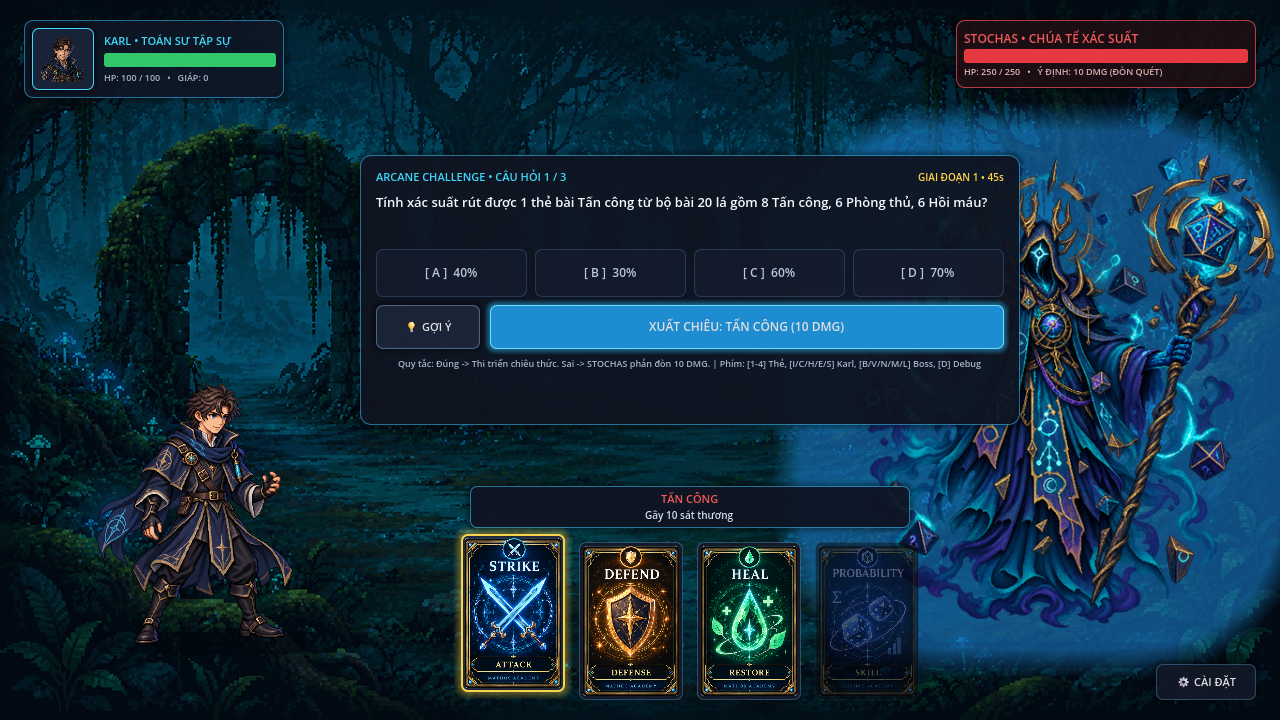
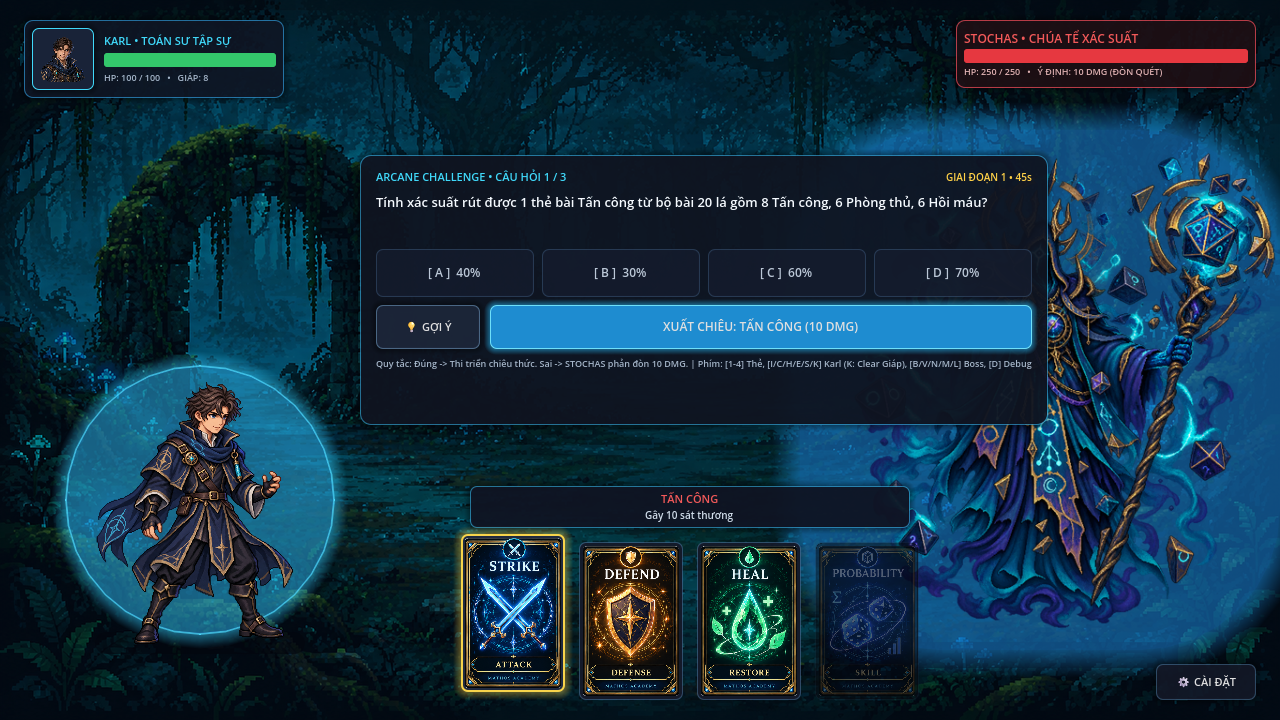
feat(lab): implement persistent shield state and active barrier visual [MATHOS-PERSISTENT-SHIELD-LAB-226L]

diff --git a/Agent recovery/Agent3.md b/Agent recovery/Agent3.md
@@ -3,23 +3,23 @@
 > Canonical recovery note for Agent3. This file must be updated every time Agent3 receives a prompt, and updated again before sending a report if state changed.
 
 ## 1. CURRENT TASK
-- TASK_ID: MATHOS-STOCHAS-LAB-COMBAT-TIMING-FIX-225L
-- TITLE: LAB-only interaction timing fix
-- FROM: User / LAB Gameplay Flow Correction
-- PRIORITY: P0 / LAB GAMEPLAY FLOW CORRECTION
-- BASE: 8daf880244c8673c88fd373e12f922618be26f44
+- TASK_ID: MATHOS-PERSISTENT-SHIELD-LAB-226L
+- TITLE: Persistent shield-state visual fix
+- FROM: User / LAB Combat State
+- PRIORITY: P0 / LAB COMBAT STATE
+- BASE: 96765416e464bea68678e8e37d45214aad07c305
 - STATUS: DONE
-- PROMPT_RECEIVED_AT: 2026-09-13T08:47:00+07:00
-- UPDATED_AT: 2026-09-13T08:48:45+07:00
+- PROMPT_RECEIVED_AT: 2026-09-13T09:05:00+07:00
+- UPDATED_AT: 2026-09-13T09:11:30+07:00
 
 ## 2. WORKSPACE / GIT
 - PROJECT: Mathos
 - WORKTREE: D:\Mathos_Worktrees\MATHOS-STORY-PARITY-FIX-185
 - BRANCH: task/mathos-story-parity-fix-185
-- START_HEAD: 8daf880244c8673c88fd373e12f922618be26f44
-- CURRENT_HEAD: ca9979dafd68807c1b6648c9473e42443a7b9a99
-- FINAL_HEAD: ca9979dafd68807c1b6648c9473e42443a7b9a99
-- CANONICAL_BASE: 8daf880244c8673c88fd373e12f922618be26f44
+- START_HEAD: 96765416e464bea68678e8e37d45214aad07c305
+- CURRENT_HEAD: 888d239c05e84340403e79ca3b7982ce15bf0dcc
+- FINAL_HEAD: 888d239c05e84340403e79ca3b7982ce15bf0dcc
+- CANONICAL_BASE: 96765416e464bea68678e8e37d45214aad07c305
 - PRODUCTION_SOURCE_CHANGED: NO (0 production files modified)
 
 ## 3. EXACT PROMPT / INTENT SUMMARY
@@ -88,20 +88,15 @@
 - State Priority: STUN > HIT > CAST > ENRAGED > IDLE (zero tween fighting, clean resume)
 - Position Drift: 0.0 px (all tweens explicitly anchor to BOSS_BASE_POS)
 
-## 6. ACCEPTANCE GATES STATUS (MATHOS-STOCHAS-LAB-COMBAT-TIMING-FIX-225L)
-- GATE 1 (Initial state clean: has_selected_answer = false, answer_idx = -1, IDLE states): PASS
-- GATE 2 (Card selection updates visual highlight, hover detail, and CTA text ONLY; 0 animation): PASS
-- GATE 3 (Answer selection updates choice button highlight ONLY; 0 animation): PASS
-- GATE 4 (CTA press without answer selected displays floating warning "Chọn đáp án trước", 0 animation): PASS
-- GATE 5 (CTA press on disabled card PROBABILITY shows "CHƯA KÍCH HOẠT", 0 animation): PASS
-- GATE 6 (Correct answer + STRIKE card triggers Karl CAST -> STOCHAS HIT & -10 HP near STOCHAS): PASS
-- GATE 7 (Correct answer + DEFEND card triggers Karl SHIELD & +8 GIÁP barrier VFX): PASS
-- GATE 8 (Correct answer + HEAL card triggers Karl HEAL & +15 HP emerald aura VFX): PASS
-- GATE 9 (Wrong answer triggers STOCHAS CAST counter-attack -> Karl HIT & -10 HP near Karl; card does not execute): PASS
-- GATE 10 (Manual debug hotkeys [I/C/H/E/S/B/V/N/M/L/D] remain fully functional): PASS
-- GATE 11 (All 5 Karl states baseline alignment preserved at 650.0 px): PASS
-- GATE 12 (Question/card/background layout unchanged): PASS (Question 660x270 at 690/155, Karl 300x300, cards 104x158)
-- GATE 13 (Production source untouched & 0 images generated/edited): PASS (0 production files modified)
+## 6. ACCEPTANCE GATES STATUS (MATHOS-PERSISTENT-SHIELD-LAB-226L)
+- GATE 1 (Initial state clean: shield = 0, barrier hidden, HUD reporting GIÁP: 0): PASS
+- GATE 2 (Successful DEFEND sets shield +8, plays SHIELD cast animation, activates persistent barrier): PASS
+- GATE 3 (Karl returns to IDLE sprite after 1.1s cast while persistent visual barrier remains active): PASS
+- GATE 4 (Repeated DEFEND stacks shield correctly: 8 -> 16 -> 24): PASS
+- GATE 5 (clear_shield() [K] resets shield to 0, updates HUD to GIÁP: 0, hides barrier cleanly): PASS
+- GATE 6 (Other combat cards STRIKE, HEAL, and Boss reactions remain fully functional): PASS
+- GATE 7 (Layout preserved: Question 660x270, Karl 300x300, Cards 104x158, Bg 1280x720): PASS
+- GATE 8 (Production source untouched & 0 images generated/edited): PASS (0 production files modified)
 
 ## 7. RECENT PROMPT LOG
 ### Prompt entry 49
@@ -121,4 +116,11 @@
 - TASK_ID: MATHOS-STOCHAS-LAB-COMBAT-TIMING-FIX-225L
 - ONE_LINE_INTENT: Decouple card selection from immediate attack triggers, enforce answer selection check on CTA press, and lock combat execution timing chain.
 - RESULT / CURRENT_STATE: DONE (All 13 automated gates PASSED)
+
+### Prompt entry 52
+- RECEIVED_AT: 2026-09-13T09:05:00+07:00
+- TASK_ID: MATHOS-PERSISTENT-SHIELD-LAB-226L
+- ONE_LINE_INTENT: Separate temporary SHIELD cast animation from persistent active barrier visual while current_shield > 0, update HUD shield indicator, and add clear shield hotkey [K].
+- RESULT / CURRENT_STATE: DONE (All 8 automated gates PASSED)
+
 
